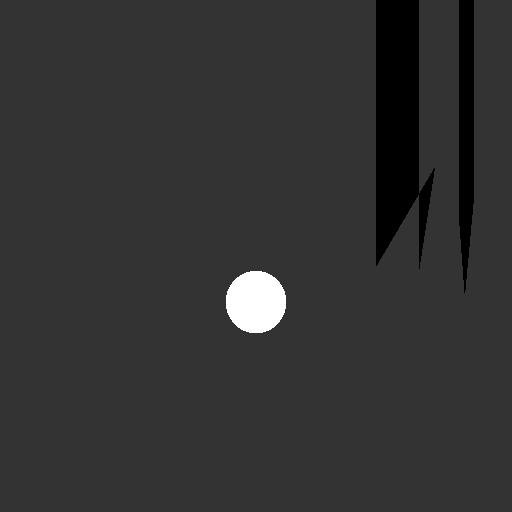
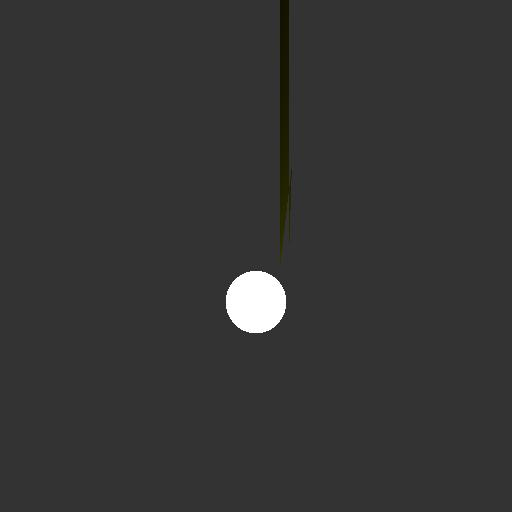
Phong Highlighting working properly for specular highlights on spheres.

Changed region(s): [[0.7188, 0.0, 0.8438, 0.5312], [0.875, 0.0, 0.9375, 0.5625], [0.5312, 0.0, 0.5938, 0.5]]

diff --git a/src/main/java/edu/byu/cs455/Main.java b/src/main/java/edu/byu/cs455/Main.java
@@ -39,26 +39,26 @@ public class Main
         scene = new Scene(spheres, triangles, cameraSettings, light);
         scene.rayTraceToFile(args[0]);
 
-//        spheres = new ArrayList<>();
-//        triangles = new ArrayList<>();
-//        spheres.add(new Sphere(new Vector(0.0, 0.3, 0.0), 0.2, new Reflective(new Color(1.0f, 1.0f, 1.0f))));
-//        triangles.add(new Triangle(new Vector(0.3, -0.3, -0.4), new Vector(0.0, 0.3, -0.1), new Vector(-0.3, -0.3, 0.2), new Diffuse(new Color(0.0f, 0.0f, 1.0f), new Color(1.0f, 1.0f, 1.0f), 32)));
-//        triangles.add(new Triangle(new Vector(-0.2, 0.1, 0.1), new Vector(-0.2, -0.5, 0.2), new Vector(-0.2, 0.1, -0.3), new Diffuse(new Color(1.0f, 1.0f, 0.0f), new Color(1.0f, 1.0f, 1.0f), 4)));
-//        cameraSettings = new CameraSettings(new Vector(0.0, 0.0, 0.0), new Vector(0.0, 0.0, 1.2), new Vector(0.0, 1.0, 0.0), 55);
-//        light = new Light(new Vector(0.0, 1.0, 0.0), new Color(1.0f, 1.0f, 1.0f), new Color(0.0f, 0.0f, 0.0f), new Color(0.2f, 0.2f, 0.2f));
-//        scene = new Scene(spheres, triangles, cameraSettings, light);
-//        scene.rayTraceToFile(args[1]);
-//
-//        spheres = new ArrayList<>();
-//        triangles = new ArrayList<>();
-//        spheres.add(new Sphere(new Vector(0.0, 0.0, 0.0), 0.2322, new Refractive(new Color(1.0f, 1.0f, 1.0f), 1.333)));
-//        spheres.add(new Sphere(new Vector(0.25, 0.25, -0.6), 0.1161, new Diffuse(new Color(1.0f, 1.0f, 0.0f), new Color(0.5f, 1.0f, 0.5f), 4)));
-//        spheres.add(new Sphere(new Vector(-0.25, 0.25, -0.6), 0.1161, new Diffuse(new Color(1.0f, 0.0f, 0.0f), new Color(0.0f, 0.0f, 0.0f), 4)));
-//        spheres.add(new Sphere(new Vector(-0.25, -0.25, -0.6), 0.1161, new Diffuse(new Color(0.0f, 0.0f, 1.0f), new Color(0.0f, 0.0f, 0.0f), 4)));
-//        spheres.add(new Sphere(new Vector(0.25, -0.25, -0.6), 0.1161, new Diffuse(new Color(0.0f, 1.0f, 0.0f), new Color(0.0f, 0.0f, 0.0f), 4)));
-//        cameraSettings = new CameraSettings(new Vector(0.0, 0.0, 0.0), new Vector(0.0, 0.0, 1.2), new Vector(0.0, 1.0, 0.0), 35);
-//        light = new Light(new Vector(0.0, 0.0, 1.0), new Color(1.0f, 1.0f, 1.0f), new Color(0.0f, 0.0f, 0.0f), new Color(0.2f, 0.2f, 0.2f));
-//        scene = new Scene(spheres, triangles, cameraSettings, light);
-//        scene.rayTraceToFile(args[2]);
+        spheres = new ArrayList<>();
+        triangles = new ArrayList<>();
+        spheres.add(new Sphere(new Vector(0.0, 0.3, 0.0), 0.2, new Reflective(new Color(1.0f, 1.0f, 1.0f))));
+        triangles.add(new Triangle(new Vector(0.3, -0.3, -0.4), new Vector(0.0, 0.3, -0.1), new Vector(-0.3, -0.3, 0.2), new Diffuse(new Color(0.0f, 0.0f, 1.0f), new Color(1.0f, 1.0f, 1.0f), 32)));
+        triangles.add(new Triangle(new Vector(-0.2, 0.1, 0.1), new Vector(-0.2, -0.5, 0.2), new Vector(-0.2, 0.1, -0.3), new Diffuse(new Color(1.0f, 1.0f, 0.0f), new Color(1.0f, 1.0f, 1.0f), 4)));
+        cameraSettings = new CameraSettings(new Vector(0.0, 0.0, 0.0), new Vector(0.0, 0.0, 1.2), new Vector(0.0, 1.0, 0.0), 55);
+        light = new Light(new Vector(0.0, 1.0, 0.0), new Color(1.0f, 1.0f, 1.0f), new Color(0.0f, 0.0f, 0.0f), new Color(0.2f, 0.2f, 0.2f));
+        scene = new Scene(spheres, triangles, cameraSettings, light);
+        scene.rayTraceToFile(args[1]);
+
+        spheres = new ArrayList<>();
+        triangles = new ArrayList<>();
+        spheres.add(new Sphere(new Vector(0.0, 0.0, 0.0), 0.2322, new Refractive(new Color(1.0f, 1.0f, 1.0f), 1.333)));
+        spheres.add(new Sphere(new Vector(0.25, 0.25, -0.6), 0.1161, new Diffuse(new Color(1.0f, 1.0f, 0.0f), new Color(0.5f, 1.0f, 0.5f), 4)));
+        spheres.add(new Sphere(new Vector(-0.25, 0.25, -0.6), 0.1161, new Diffuse(new Color(1.0f, 0.0f, 0.0f), new Color(0.0f, 0.0f, 0.0f), 4)));
+        spheres.add(new Sphere(new Vector(-0.25, -0.25, -0.6), 0.1161, new Diffuse(new Color(0.0f, 0.0f, 1.0f), new Color(0.0f, 0.0f, 0.0f), 4)));
+        spheres.add(new Sphere(new Vector(0.25, -0.25, -0.6), 0.1161, new Diffuse(new Color(0.0f, 1.0f, 0.0f), new Color(0.0f, 0.0f, 0.0f), 4)));
+        cameraSettings = new CameraSettings(new Vector(0.0, 0.0, 0.0), new Vector(0.0, 0.0, 1.2), new Vector(0.0, 1.0, 0.0), 35);
+        light = new Light(new Vector(0.0, 0.0, 1.0), new Color(1.0f, 1.0f, 1.0f), new Color(0.0f, 0.0f, 0.0f), new Color(0.2f, 0.2f, 0.2f));
+        scene = new Scene(spheres, triangles, cameraSettings, light);
+        scene.rayTraceToFile(args[2]);
     }
 }

diff --git a/src/main/java/edu/byu/cs455/scene/material/Diffuse.java b/src/main/java/edu/byu/cs455/scene/material/Diffuse.java
@@ -1,6 +1,7 @@
 package edu.byu.cs455.scene.material;
 
 import edu.byu.cs455.scene.Scene;
+import edu.byu.cs455.scene.element.Ray;
 import edu.byu.cs455.scene.element.Vector;
 
 import java.awt.*;
@@ -31,21 +32,36 @@ public class Diffuse extends Material
     }
 
     @Override
-    public Color calculateIlluminationModel(Vector normal, boolean isInShadow, Scene scene)
+    public Color calculateIlluminationModel(Vector normal, boolean isInShadow, Scene scene, Ray ray, Vector intersectionPoint)
     {
         //c = cr * ca + cr * cl * max(0, n \dot l)) + cl * cp * max(0, e \dot r)^p
-        Vector lightSourceColor = getColorVector(scene.getLight().getLightColor()); //cl
+        Vector lightSourceColor = getColorVector(scene.getLightColor()); //cl
         Vector diffuseReflectanceColor = getColorVector(getMaterialColor()); //cr
-        Vector ambientColor = getColorVector(scene.getLight().getAmbientLightColor()); //ca
+        Vector ambientColor = getColorVector(scene.getAmbientLightColor()); //ca
         Vector specularHighlightColor = getColorVector(getSpecularHighlight()); //cp
-        Vector directionToLight = scene.getLight().getDirectionToLight(); //l
-        Vector reflectionVector = getReflectionVector(normal, directionToLight); //r
+        Vector directionToLight = scene.getDirectionToLight().subtract(intersectionPoint)
+                .normalize(); //l
+        Vector reflectionVector = getReflectionVector(normal, directionToLight)
+                .normalize(); //r
 
-        double visibilityTerm = isInShadow ? 1 : 0;
-        Vector ambientTerm = getAmbientTerm(diffuseReflectanceColor, ambientColor);
-        Vector diffuseTerm = getDiffuseTerm(diffuseReflectanceColor, lightSourceColor, getLambertianComponent(normal, directionToLight))
+        //double visibilityTerm = isInShadow ? 1 : 0;
+        double visibilityTerm = 1;
+        Vector ambientTerm = getAmbientTerm(diffuseReflectanceColor,
+                ambientColor);
+        Vector diffuseTerm = getDiffuseTerm(diffuseReflectanceColor,
+                lightSourceColor,
+                getLambertianComponent(normal,
+                        directionToLight
+                )
+        )
                 .multiply(visibilityTerm);
-        Vector phongTerm = getPhongTerm(lightSourceColor, specularHighlightColor, getPhongComponent(scene.getCameraSettings().getLookFrom(), reflectionVector, getPhongConstant()))
+        Vector phongTerm = getPhongTerm(lightSourceColor,
+                specularHighlightColor,
+                getPhongComponent(scene.getLookFrom(),
+                        reflectionVector,
+                        getPhongConstant()
+                )
+        )
                 .multiply(visibilityTerm);
         return addColorTermsTogether(ambientTerm, diffuseTerm, phongTerm);
     }
@@ -77,7 +93,7 @@ public class Diffuse extends Material
 
     private Vector getReflectionVector(Vector normal, Vector directionToLight)
     {
-        return normal.multiply(2).multiply(normal.crossProduct(directionToLight)).subtract(directionToLight);
+        return normal.multiply(2).multiply(normal.dotProduct(directionToLight)).subtract(directionToLight);
     }
 
     private double getPhongComponent(Vector eye, Vector reflection, double phongConstant)

diff --git a/src/main/java/edu/byu/cs455/scene/Scene.java b/src/main/java/edu/byu/cs455/scene/Scene.java
@@ -17,7 +17,6 @@ import java.io.IOException;
 import java.util.ArrayList;
 import java.util.Collections;
 import java.util.List;
-import java.util.concurrent.ThreadLocalRandom;
 
 /**
  * Created by cstaheli on 11/1/2016.
@@ -56,9 +55,34 @@ public class Scene
         return cameraSettings;
     }
 
+    public Vector getLookFrom()
+    {
+        return cameraSettings.getLookFrom();
+    }
+
     public Light getLight()
     {
         return light;
+    }
+
+    public Vector getDirectionToLight()
+    {
+        return light.getDirectionToLight();
+    }
+
+    public Color getLightColor()
+    {
+        return light.getLightColor();
+    }
+
+    public Color getAmbientLightColor()
+    {
+        return light.getAmbientLightColor();
+    }
+
+    public Color getBackgroundColor()
+    {
+        return light.getBackgroundColor();
     }
 
     public void rayTraceToFile(String fileName)
@@ -124,7 +148,7 @@ public class Scene
             }
         }
         if (actualIntersection != null)
-            return actualSceneObject.calculateIlluminationModel(actualIntersection, isInShadow(actualIntersection), this);
+            return actualSceneObject.calculateIlluminationModel(actualIntersection, isInShadow(actualIntersection), this,ray);
         return getLight().getBackgroundColor();
     }
 

diff --git a/src/main/java/edu/byu/cs455/scene/object/SceneObject.java b/src/main/java/edu/byu/cs455/scene/object/SceneObject.java
@@ -19,10 +19,10 @@ public abstract class SceneObject
         this.material = material;
     }
 
-    public Color calculateIlluminationModel(Vector intersectionPoint, boolean isInShadow, Scene scene)
+    public Color calculateIlluminationModel(Vector intersectionPoint, boolean isInShadow, Scene scene, Ray ray)
     {
         Vector normal = getNormalAtIntersection(intersectionPoint);
-        return material.calculateIlluminationModel(normal, isInShadow, scene);
+        return material.calculateIlluminationModel(normal, isInShadow, scene, ray, intersectionPoint);
     }
 
     public abstract Vector getIntersectionVector(Ray ray);

diff --git a/src/main/java/edu/byu/cs455/scene/material/Material.java b/src/main/java/edu/byu/cs455/scene/material/Material.java
@@ -1,6 +1,7 @@
 package edu.byu.cs455.scene.material;
 
 import edu.byu.cs455.scene.Scene;
+import edu.byu.cs455.scene.element.Ray;
 import edu.byu.cs455.scene.element.Vector;
 
 import java.awt.*;
@@ -22,7 +23,7 @@ public abstract class Material
         return materialColor;
     }
 
-    public abstract Color calculateIlluminationModel(Vector normal, boolean isInShadow, Scene scene);
+    public abstract Color calculateIlluminationModel(Vector normal, boolean isInShadow, Scene scene, Ray ray, Vector intersectionPoint);
 
     protected double getLambertianComponent(Vector normal, Vector lightDirection)
     {

diff --git a/src/main/java/edu/byu/cs455/scene/material/Reflective.java b/src/main/java/edu/byu/cs455/scene/material/Reflective.java
@@ -1,6 +1,7 @@
 package edu.byu.cs455.scene.material;
 
 import edu.byu.cs455.scene.Scene;
+import edu.byu.cs455.scene.element.Ray;
 import edu.byu.cs455.scene.element.Vector;
 
 import java.awt.*;
@@ -16,7 +17,7 @@ public class Reflective extends Material
     }
 
     @Override
-    public Color calculateIlluminationModel(Vector normal, boolean isInShadow, Scene scene)
+    public Color calculateIlluminationModel(Vector normal, boolean isInShadow, Scene scene, Ray ray, Vector intersectionPoint)
     {
         return getMaterialColor();
     }

diff --git a/src/main/java/edu/byu/cs455/scene/material/Refractive.java b/src/main/java/edu/byu/cs455/scene/material/Refractive.java
@@ -1,6 +1,7 @@
 package edu.byu.cs455.scene.material;
 
 import edu.byu.cs455.scene.Scene;
+import edu.byu.cs455.scene.element.Ray;
 import edu.byu.cs455.scene.element.Vector;
 
 import java.awt.*;
@@ -24,7 +25,7 @@ public class Refractive extends Material
     }
 
     @Override
-    public Color calculateIlluminationModel(Vector normal, boolean isInShadow, Scene scene)
+    public Color calculateIlluminationModel(Vector normal, boolean isInShadow, Scene scene, Ray ray, Vector intersectionPoint)
     {
         return getMaterialColor();
     }
